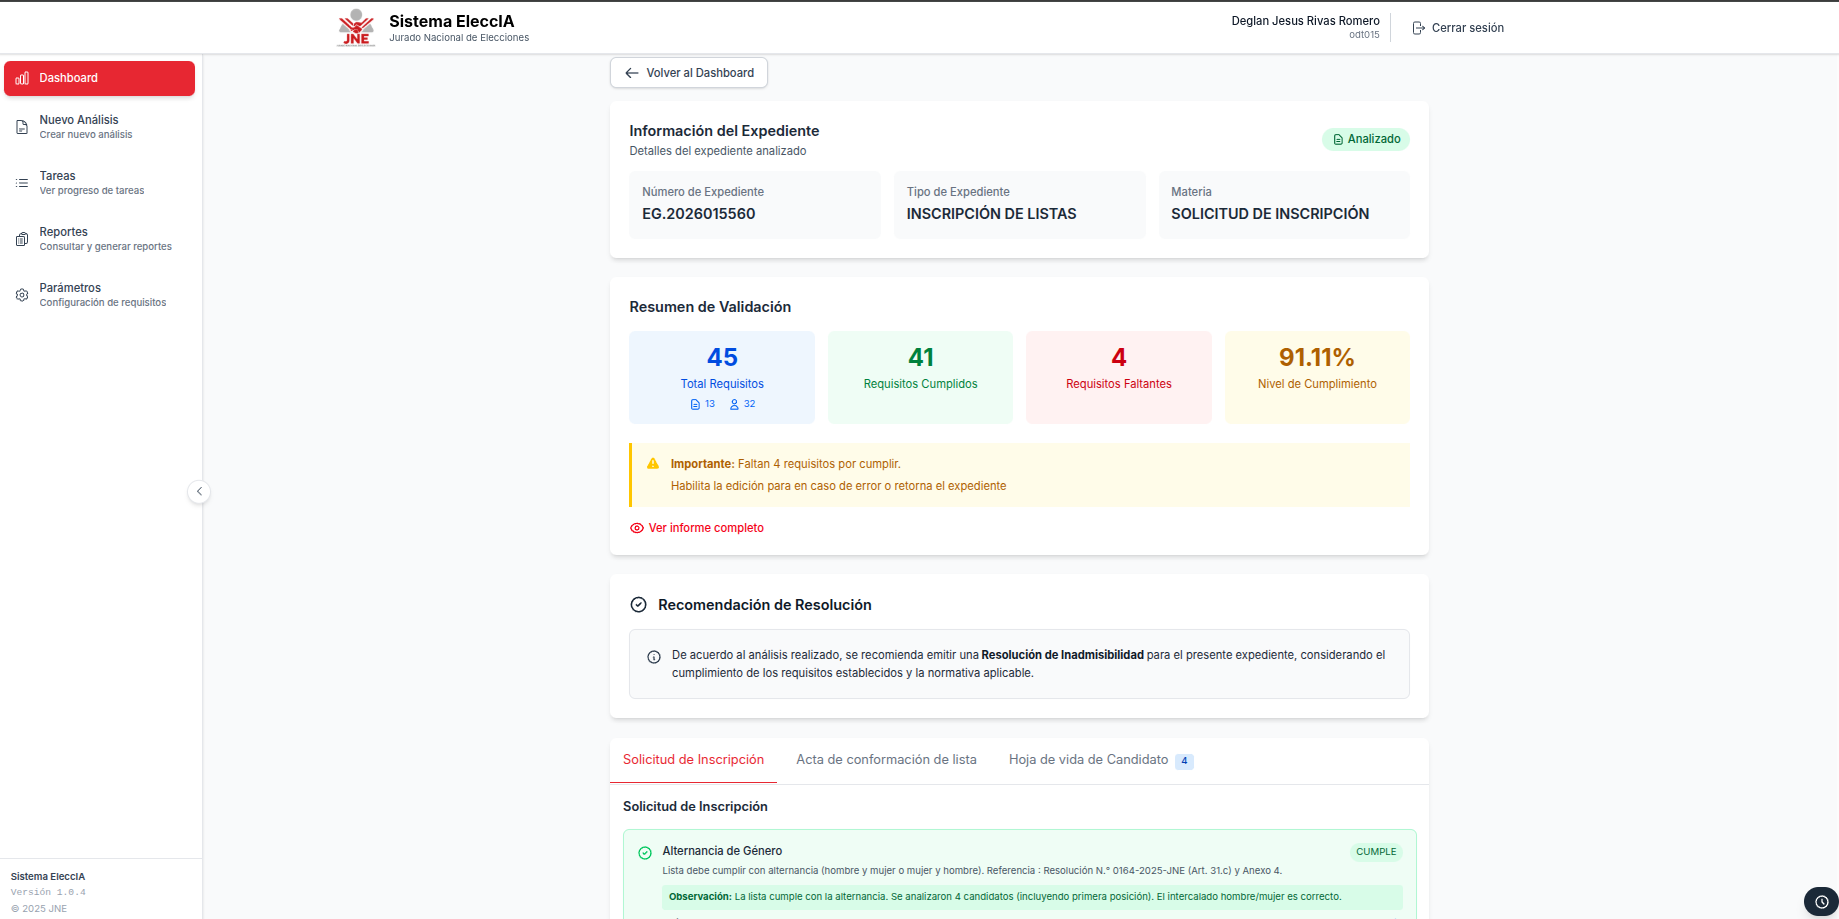
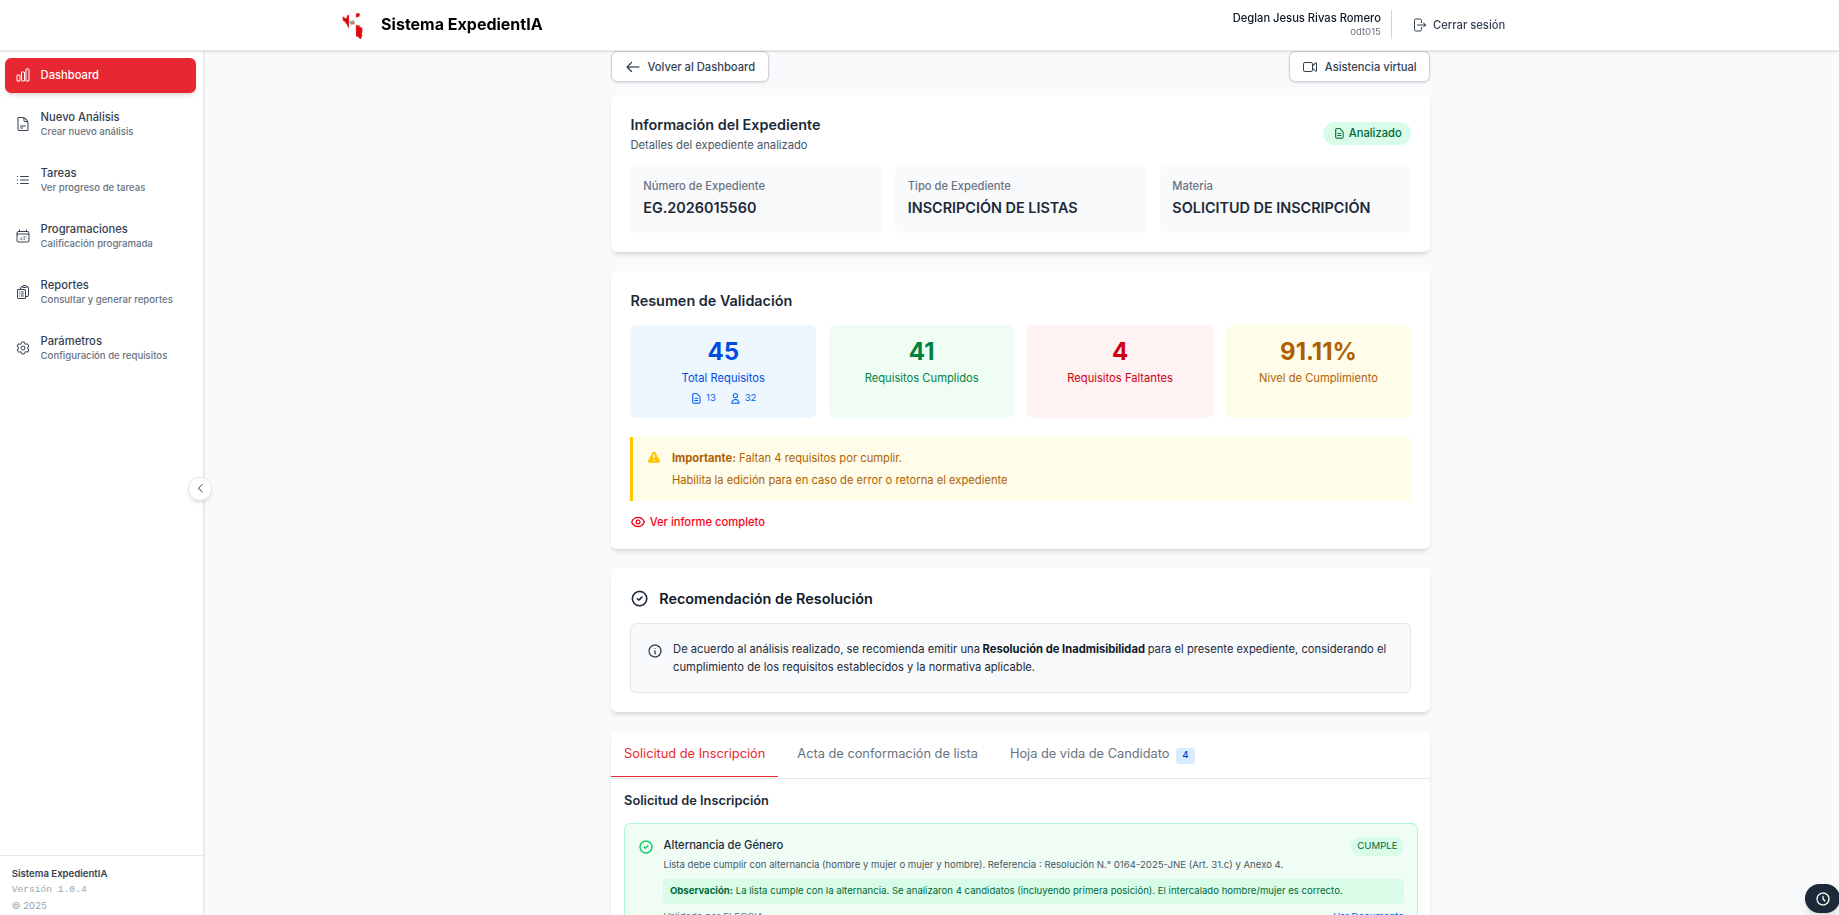
feat: :sparkles: reorganizar tablas sección 2 y agregar anexo C con imágenes complementarias de la UI

diff --git a/INFORME_TSP.tex b/INFORME_TSP.tex
@@ -427,9 +427,9 @@ La aplicación de RUP al proyecto EleccIA permitió validar progresivamente el e
 \chapter{Ingeniería de Requerimientos}
 \label{cap:requerimientos}
 
-La ingeniería de requerimientos constituye una fase fundamental en el desarrollo de cualquier sistema de software, particularmente en el caso de ExpedientIA, donde la precisión y trazabilidad de los requisitos son críticas dado el contexto electoral en el que opera. Este capítulo presenta la especificación de los requerimientos funcionales y no funcionales del sistema ExpedientIA, organizados según el enfoque iterativo e incremental adoptado en el proyecto.
+Este capítulo presenta la especificación de los requerimientos funcionales y no funcionales del sistema ExpedientIA, cuya precisión y trazabilidad son críticas en el contexto electoral en el que opera.
 
-El proceso de levantamiento de requerimientos se llevó a cabo mediante sesiones de trabajo colaborativo con los interesados del órgano electoral, incluyendo especialistas en procesos electorales, analistas funcionales y usuarios finales. Este proceso dio como resultado un total de 155 requisitos —74 funcionales y 81 no funcionales— que fueron documentados formalmente en el documento OGTI-6-ExpedientIA-154-2025 REQ001, los cuales fueron organizados en 3 iteraciones de desarrollo para facilitar la implementación progresiva del sistema. La especificación completa de cada conjunto de requisitos se presenta en el Anexo~\ref{anexo:requerimientos-funcionales} y el Anexo~\ref{anexo:requerimientos-no-funcionales}, respectivamente.
+El levantamiento de requerimientos se realizó mediante sesiones colaborativas con especialistas electorales, analistas funcionales y usuarios finales del órgano electoral. Se obtuvo un total de 155 requisitos —74 funcionales y 81 no funcionales— documentados en el informe OGTI-6-ExpedientIA-154-2025 REQ001 y organizados en 3 iteraciones de desarrollo. La especificación completa se presenta en el Anexo~\ref{anexo:requerimientos-funcionales} y el Anexo~\ref{anexo:requerimientos-no-funcionales}, respectivamente.
 
 % ============================================
 % SECCIÓN 2.1: REQUERIMIENTOS FUNCIONALES
@@ -437,7 +437,15 @@ El proceso de levantamiento de requerimientos se llevó a cabo mediante sesiones
 \section{Requerimientos funcionales}
 \label{sec:req-funcionales}
 
-Los requerimientos funcionales de ExpedientIA describen las capacidades y comportamientos específicos que debe exhibir el sistema para satisfacer las necesidades operativas del proceso de calificación de expedientes electorales. Se organizan en nueve módulos funcionales que cubren desde la autenticación de usuarios hasta la integración con sistemas externos. La Tabla~\ref{tab:req-funcionales-muestra} presenta dos ejemplos representativos de cada módulo; la especificación completa de los 74 requerimientos funcionales se encuentra en el Anexo~\ref{anexo:requerimientos-funcionales}.
+Los requerimientos funcionales describen las capacidades y comportamientos que debe exhibir el sistema, organizados en nueve módulos que abarcan desde la autenticación hasta la integración con sistemas externos. La Tabla~\ref{tab:req-funcionales-muestra} presenta dos ejemplos por módulo; la especificación completa se encuentra en el Anexo~\ref{anexo:requerimientos-funcionales}.
+
+% ============================================
+% SECCIÓN 2.2: REQUERIMIENTOS NO FUNCIONALES
+% ============================================
+\section{Requerimientos no funcionales}
+\label{sec:req-no-funcionales}
+
+Los requerimientos no funcionales establecen los atributos de calidad y restricciones operacionales del sistema, organizados en siete categorías según estándares internacionales de ingeniería de software. La Tabla~\ref{tab:req-no-funcionales-muestra} presenta dos ejemplos por categoría; la especificación completa se encuentra en el Anexo~\ref{anexo:requerimientos-no-funcionales}.
 
 \begin{table}[H]
 \centering
@@ -479,13 +487,7 @@ RF-57 & El sistema debe conectarse con el servicio de ventanilla única para acc
 \end{tabular}
 \end{table}
 
-% ============================================
-% SECCIÓN 2.2: REQUERIMIENTOS NO FUNCIONALES
-% ============================================
-\section{Requerimientos no funcionales}
-\label{sec:req-no-funcionales}
-
-Los requerimientos no funcionales de ExpedientIA establecen las restricciones, atributos de calidad y características operacionales que debe satisfacer el sistema para garantizar un desempeño adecuado en el contexto crítico de los procesos electorales. Se organizan en siete categorías de calidad derivadas de los estándares internacionales de ingeniería de software. La Tabla~\ref{tab:req-no-funcionales-muestra} presenta dos ejemplos representativos de cada categoría; la especificación completa de los 81 requerimientos no funcionales se encuentra en el Anexo~\ref{anexo:requerimientos-no-funcionales}.
+\clearpage
 
 \begin{table}[H]
 \centering
@@ -520,6 +522,8 @@ RNF-71 & Se debe entregar cronograma de actividades en formato MS Project o Prim
 \bottomrule
 \end{tabular}
 \end{table}
+
+\clearpage
 
 % ============================================
 % SECCIÓN 2.3: DESARROLLO ITERATIVO
@@ -745,7 +749,7 @@ La integración de estos tres sistemas permite a ExpedientIA combinar eficiencia
 \section{Diseño de Interfaces de Usuario}
 \label{sec:diseno-interfaces}
 
-El diseño de interfaces de usuario de ExpedientIA prioriza la usabilidad y claridad en la presentación de información compleja, facilitando a los evaluadores del órgano electoral la calificación eficiente de expedientes electorales. La interfaz proporciona acceso intuitivo a funcionalidades críticas del sistema, visualización estructurada de resultados de calificación automatizada, gestión de jurisprudencia aplicable y generación de proyectos de resolución. Cada pantalla se diseñó considerando los flujos de trabajo reales de los usuarios y los requerimientos de usabilidad especificados en la Sección~\ref{subsec:rnf-usabilidad}.
+El diseño de interfaces de usuario de ExpedientIA prioriza la usabilidad y claridad en la presentación de información compleja, facilitando a los evaluadores del órgano electoral la calificación eficiente de expedientes electorales. La interfaz proporciona acceso intuitivo a funcionalidades críticas del sistema, visualización estructurada de resultados de calificación automatizada, gestión de jurisprudencia aplicable y generación de proyectos de resolución. Cada pantalla se diseñó considerando los flujos de trabajo reales de los usuarios y los requerimientos de usabilidad especificados en la Sección~\ref{sec:req-no-funcionales}.
 
 \subsection*{Dashboard de expedientes calificados}
 
@@ -1395,5 +1399,55 @@ RNF-81 & Documentación & Se debe entregar el informe de cierre y acta de confor
 \end{longtable}
 \endgroup
 
+% ============================================
+% ANEXO C: VISTAS ADICIONALES DE INTERFAZ DE USUARIO
+% ============================================
+\chapter{Vistas Adicionales de la UI}
+\label{anexo:vistas-ui}
+
+El presente anexo reúne las pantallas complementarias del sistema ExpedientIA que amplían las funcionalidades descritas en la Sección~\ref{sec:diseno-interfaces}. Estas vistas corresponden a módulos de administración, automatización y reportería que soportan las operaciones avanzadas del sistema.
+
+\begin{figure}[H]
+    \centering
+    \includegraphics[width=0.95\textwidth]{UI_A_1.png}
+    \caption{Vista de recalificación masiva de expedientes. Permite al operador seleccionar un conjunto de expedientes y aplicar el proceso de calificación asistida por inteligencia artificial de forma simultánea, reduciendo el tiempo de procesamiento en escenarios de alta carga.}
+    \label{fig:ui-recalificacion-masiva}
+\end{figure}
+
+% \clearpage
+
+\begin{figure}[H]
+    \centering
+    \includegraphics[width=0.95\textwidth]{UI_A_2.png}
+    \caption{Vista de gestión de tareas en segundo plano. Muestra el estado de las tareas activas o pendientes de ejecución, permitiendo al usuario monitorear el progreso de operaciones de larga duración sin interrumpir su flujo de trabajo habitual.}
+    \label{fig:ui-tareas-segundo-plano}
+\end{figure}
+
+% \clearpage
+
+\begin{figure}[H]
+    \centering
+    \includegraphics[width=0.95\textwidth]{UI_A_3.png}
+    \caption{Vista de programación de frecuencia de tareas. Facilita la configuración de la periodicidad con la que se ejecutan procesos automáticos del sistema, como la sincronización con la plataforma jurisdiccional o la actualización de modelos de análisis.}
+    \label{fig:ui-programacion-tareas}
+\end{figure}
+
+% \clearpage
+
+\begin{figure}[H]
+    \centering
+    \includegraphics[width=0.95\textwidth]{UI_A_4.png}
+    \caption{Vista de reportería para Secretaría General. Presenta los indicadores y métricas de gestión disponibles para el perfil administrativo, incluyendo estadísticas de expedientes calificados, tiempos promedio de procesamiento y tasas de observación por período.}
+    \label{fig:ui-reporteria-secretaria}
+\end{figure}
+
+% \clearpage
+
+\begin{figure}[H]
+    \centering
+    \includegraphics[width=0.95\textwidth]{UI_A_5.png}
+    \caption{Vista de configuración de parámetros por requisito. Permite al administrador del sistema ajustar los criterios de evaluación asociados a cada requisito legal elegible, garantizando que el sistema se adapte a las disposiciones normativas vigentes para cada proceso electoral.}
+    \label{fig:ui-configuracion-parametros}
+\end{figure}
 
 \end{document}
